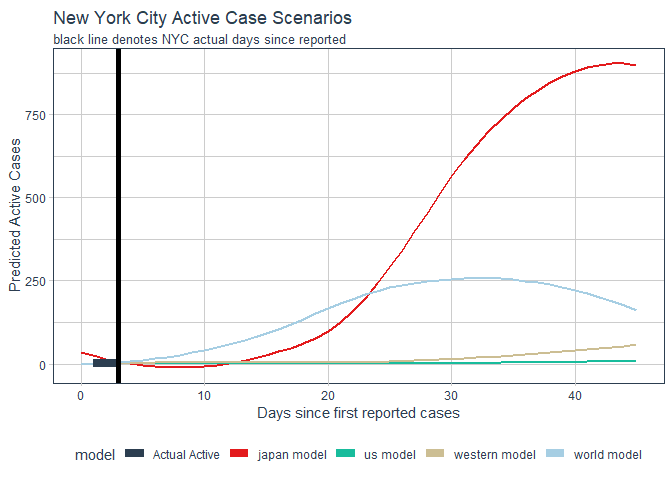
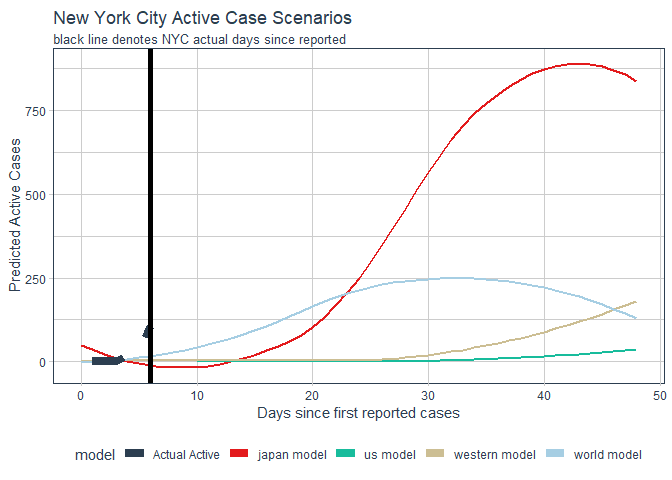
chinese province views

diff --git a/README.md b/README.md
@@ -1,29 +1,31 @@
 Modeling Scenarios for Covid-19
 ================
 
+# from: <https://github.com/jakobzhao/virus>
+
 ``` r
 library(tidyverse)
 library(tidyquant)
+library(crayon)
 
 theme_set(theme_tq())
 ```
 
-# from: <https://github.com/jakobzhao/virus>
-
 ``` r
 # updated every ~4 hours
-cases_data <- read_csv("http://hgis.uw.edu/virus/assets/virus.csv")
+cases_data <- suppressMessages(read_csv("http://hgis.uw.edu/virus/assets/virus.csv"))
 
-cases_data$datetime %>% range()
+
+message("Data from ", min(cases_data$datetime)," to ",max(cases_data$datetime))
 ```
 
-    ## [1] "2020-01-21" "2020-03-05"
+    ## Data from 2020-01-21 to 2020-03-08
 
 ``` r
 max_date <- 
   cases_data %>% 
-    select(datetime, `new york`) %>% 
-    na.omit() %>% summarise(max_date = max(datetime)) %>% 
+  select(datetime, `new york`) %>% 
+  na.omit() %>% summarise(max_date = max(datetime)) %>% 
   pull(max_date)
 
 ny_cases <- 
@@ -36,16 +38,18 @@ ny_cases <-
   mutate(Active = Confirmed+Suspected-Cured-Deaths) %>%
   filter(datetime == max(datetime))
 
-message("Number of confirmed NY cases as of ",max_date,": ",ny_cases$Confirmed)
+
+
+message("Number of confirmed NY cases as of ",max_date,": ", ny_cases$Confirmed,"\n")
 ```
 
-    ## Number of confirmed NY cases as of 2020-03-05: 2
+    ## Number of confirmed NY cases as of 2020-03-08: 106
 
 ``` r
 message("Number of active NY cases as of ",max_date,": ",ny_cases$Active)
 ```
 
-    ## Number of active NY cases as of 2020-03-05: 2
+    ## Number of active NY cases as of 2020-03-08: 106
 
 # Names by country
 
@@ -91,12 +95,12 @@ processed <-
   mutate(area = str_remove_all(area, "\\\\xa0")) %>% 
   mutate(first_reported = case_when(!is.na(cases)&is.na(lag(cases,1)) ~ 1
                                     , TRUE ~ NA_real_
-                                    )) %>% 
+  )) %>% 
   group_by(area) %>%
   mutate(first_reported = case_when(sum(first_reported, na.rm = T)==0&datetime==min(datetime) ~ 1
                                     , TRUE ~ first_reported
-                                    )
-         ) %>% 
+  )
+  ) %>% 
   fill(first_reported, .direction = "down") %>% 
   mutate(count_report_days = case_when(first_reported  == 1~1, TRUE ~ 0)) %>% 
   mutate(days_since_reported = cumsum(count_report_days)) %>% 
@@ -134,6 +138,18 @@ processed %>%
 ```
 
 ![](README_files/figure-gfm/days%20since%20reported-1.png)<!-- -->
+
+# Most advanced cases - Chinese Provinces
+
+``` r
+processed %>% 
+  filter(Country=="China", area!="hubei") %>% 
+  ggplot()+
+  aes(x = days_since_reported, y = Active, group = area, label = area, color = Country)+
+  geom_line()
+```
+
+![](README_files/figure-gfm/unnamed-chunk-5-1.png)<!-- -->
 
 # US
 
@@ -182,7 +198,7 @@ not_na_processed <- processed %>%
 
 not_na_western_only <- not_na_processed %>% 
   filter(Country%in% c("US","canada","france","australia","germany","israel"))
-  
+
 not_na_us_states <- not_na_processed %>% 
   filter(area%in% us_names) %>% 
   filter(area!='us')
@@ -193,16 +209,16 @@ not_na_japan <- not_na_processed %>%
 
 model_all <- loess(Active~days_since_reported, data = not_na_processed
                    , control = loess.control(surface = "direct")
-                   )  
+)  
 model_western <- loess(Active~days_since_reported, data = not_na_western_only
                        , control = loess.control(surface = "direct")
-                       )  
+)  
 model_us_states <- loess(Active~days_since_reported, data = not_na_us_states
                          , control = loess.control(surface = "direct")
-                         )  
+)  
 model_japan <- loess(Active~days_since_reported
                      , data = not_na_japan, control = loess.control(surface = "direct")
-                     )  
+)  
 ```
 
 ``` r
